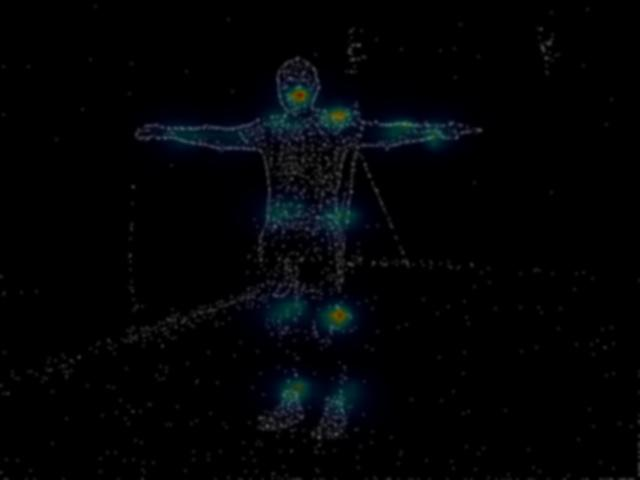
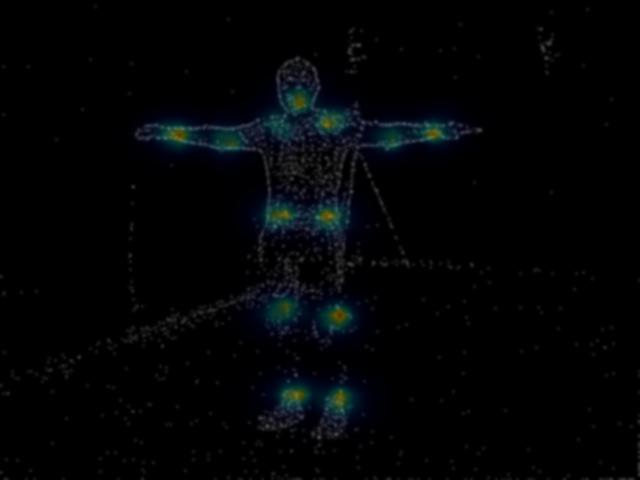
[fix+feat] Fix heatmap-regressions alignment map access with swapped indexes, refactor to build a modular function to get the offsets

diff --git a/scripts/viz_heads_output.py b/scripts/viz_heads_output.py
@@ -58,6 +58,48 @@ def get_absolute_keypoints_xy(center: torch.Tensor, keypoints_regression: torch.
         kpt_y = torch.min(torch.max(torch.tensor(0), kpt_y), torch.tensor(center.shape[-2]-1))
         yield kpt_x, kpt_y
 
+def get_hm_reg_alignment_scores(center: torch.Tensor, keypoints_regression: torch.Tensor, heatmap: torch.Tensor) -> torch.Tensor:
+    assert_chw(center, "center")
+    assert_chw(keypoints_regression, "keypoints_regression")
+    assert_chw(heatmap, "heatmap")
+    assert_even_channels(keypoints_regression, "keypoints_regression")
+    assert center.shape[0] == 1, f"Center tensor must have 1 channel, not {center.shape[0]}"
+    assert keypoints_regression.shape[0] == heatmap.shape[0]*2, f"Keypoints regression must have twice the channels of the heatmap, instead of {keypoints_regression.shape[0]} and {heatmap.shape[0]}"
+    assert center.shape[-2:] == keypoints_regression.shape[-2:] == heatmap.shape[-2:], "Center, regressions, and heatmap tensors (H, W) shape must be the same"
+    
+    C, H, W = heatmap.shape
+    cx, cy = get_center_pixel_xy(center)
+
+    r = keypoints_regression[:, cy, cx]
+    rx = cx + (r[0::2] + 0.5).trunc()
+    ry = cy + (r[1::2] + 0.5).trunc()
+
+    ys = torch.arange(H).view(1, H, 1)
+    xs = torch.arange(W).view(1, 1, W)
+
+    scores = heatmap.clone()
+
+    dist = torch.hypot(xs - rx.view(C, 1, 1), ys - ry.view(C, 1, 1))
+    scores /= (dist + 1.8)
+
+    return scores
+
+def get_joint_locations_xy(scores: torch.Tensor) -> Iterable[tuple[torch.Tensor, torch.Tensor]]:
+    """
+    Returns a tuple of tensors: x coordinates fo the joints, y coordinates of the joints.
+    """
+    joints_y = scores.max(dim=-1).values.argmax(dim=-1)
+    joints_x = scores.max(dim=-2).values.argmax(dim=-1)
+    return zip(joints_x, joints_y)
+
+def get_offsets_at_joint_locations_xy(scores: torch.Tensor, offsets: torch.Tensor) -> Iterable[tuple[tuple[torch.Tensor, torch.Tensor], tuple[torch.Tensor, torch.Tensor]]]:
+    """
+    Yields a tuple that contains joint coordinates and offsets coordinates (joint_x, joint_y), (offset_x, offset_y)
+    """
+    for ch, (jx, jy) in enumerate(get_joint_locations_xy(scores)):
+        ox, oy = offsets[2*ch, jy, jx], offsets[2*ch+1, jy, jx]
+        yield (jx, jy), (ox, oy)
+
 def superimpose_heatmap(img: torch.Tensor, heatmap: torch.Tensor, alpha: float = 0.5) -> torch.Tensor:
     assert_img(img)
     assert_chw(heatmap, "heatmap")
@@ -127,34 +169,11 @@ def superimpose_hm_reg(img: torch.Tensor, center: torch.Tensor, keypoints_regres
 
 def superimpose_hm_reg_score(img: torch.Tensor, center: torch.Tensor, keypoints_regression: torch.Tensor, heatmap: torch.Tensor, alpha: float = 0.5) -> torch.Tensor:
     assert_img(img)
-    assert_chw(center, "center")
-    assert_chw(keypoints_regression, "keypoints_regression")
-    assert_chw(heatmap, "heatmap")
-    assert_even_channels(keypoints_regression, "keypoints_regression")
-    assert center.shape[0] == 1, f"Center tensor must have 1 channel, not {center.shape[0]}"
-    assert keypoints_regression.shape[0] == heatmap.shape[0]*2, f"Keypoints regression must have twice the channels of the heatmap, instead of {keypoints_regression.shape[0]} and {heatmap.shape[0]}"
-    assert center.shape[-2:] == keypoints_regression.shape[-2:] == heatmap.shape[-2:], "Center, regressions, and heatmap tensors (H, W) shape must be the same"
-    
-    C, H, W = heatmap.shape
-    cx, cy = get_center_pixel_xy(center)
-
-    r = keypoints_regression[:, cx, cy]
-    rx = cx + (r[0::2] + 0.5).trunc()
-    ry = cy + (r[1::2] + 0.5).trunc()
-
-    ys = torch.arange(H).view(1, H, 1)
-    xs = torch.arange(W).view(1, 1, W)
-
-    scores = heatmap.clone()
-
-    dist = torch.hypot(xs - rx.view(C, 1, 1), ys - ry.view(C, 1, 1))
-    scores /= (dist + 1.8)
+    scores = get_hm_reg_alignment_scores(center, keypoints_regression, heatmap)
     scores *= 1.8  # Scaling up the values, after the scale up, scores are still <= 1
-
     return superimpose_heatmap(img, scores)
 
-
-def superimpose_offset(img: torch.Tensor, center: torch.Tensor, keypoints_regression: torch.Tensor, offset: torch.Tensor, viz_scale: float = 1) -> torch.Tensor:
+def superimpose_offset(img: torch.Tensor, center: torch.Tensor, keypoints_regression: torch.Tensor, heatmap: torch.Tensor, offset: torch.Tensor, viz_scale: float = 1) -> torch.Tensor:
     assert_img(img)
     assert_chw(center, "center")
     assert_chw(keypoints_regression, "keypoints_regression")
@@ -166,14 +185,14 @@ def superimpose_offset(img: torch.Tensor, center: torch.Tensor, keypoints_regres
 
     scale_factor_y = img.shape[-2] / center.shape[-2]
     scale_factor_x = img.shape[-1] / center.shape[-1]
+    scores = get_hm_reg_alignment_scores(center, keypoints_regression, heatmap)
 
     out = img.clone()
-    for idx, (kpt_x, kpt_y) in enumerate(get_absolute_keypoints_xy(center, keypoints_regression)):
-        offset_x, offset_y = offset[2*idx, kpt_y, kpt_x], offset[2*idx+1, kpt_y, kpt_x]
-        scaled_kpt_y = kpt_y * scale_factor_y
-        scaled_kpt_x = kpt_x * scale_factor_x
-        scaled_offset_y = scaled_kpt_y + offset_y * scale_factor_y * viz_scale
-        scaled_offset_x = scaled_kpt_x + offset_x * scale_factor_x * viz_scale
+    for (jx, jy), (ox, oy) in get_offsets_at_joint_locations_xy(scores, offset):
+        scaled_kpt_y = jy * scale_factor_y
+        scaled_kpt_x = jx * scale_factor_x
+        scaled_offset_y = scaled_kpt_y + oy * scale_factor_y * viz_scale
+        scaled_offset_x = scaled_kpt_x + ox * scale_factor_x * viz_scale
         out = draw_vector(out, (scaled_kpt_x, scaled_kpt_y), (scaled_offset_x, scaled_offset_y), thickness=2)
     return out
 
@@ -222,7 +241,7 @@ def main():
         save_image(superimpose_regression(img0, center0, regression0), args.output_dir / 'keypt_regression.jpg')
         save_image(superimpose_hm_reg(img0, center0, regression0, heatmap0), args.output_dir / 'hm_reg.jpg')
         save_image(superimpose_hm_reg_score(img0, center0, regression0, heatmap0), args.output_dir / 'hm_reg_score.jpg')
-        save_image(superimpose_offset(img0, center0, regression0, offset0, viz_scale=1), args.output_dir / 'keypt_offsets.jpg')
+        save_image(superimpose_offset(img0, center0, regression0, heatmap0, offset0, viz_scale=1), args.output_dir / 'keypt_offsets.jpg')
 
 
 def parse_args() -> argparse.Namespace:
